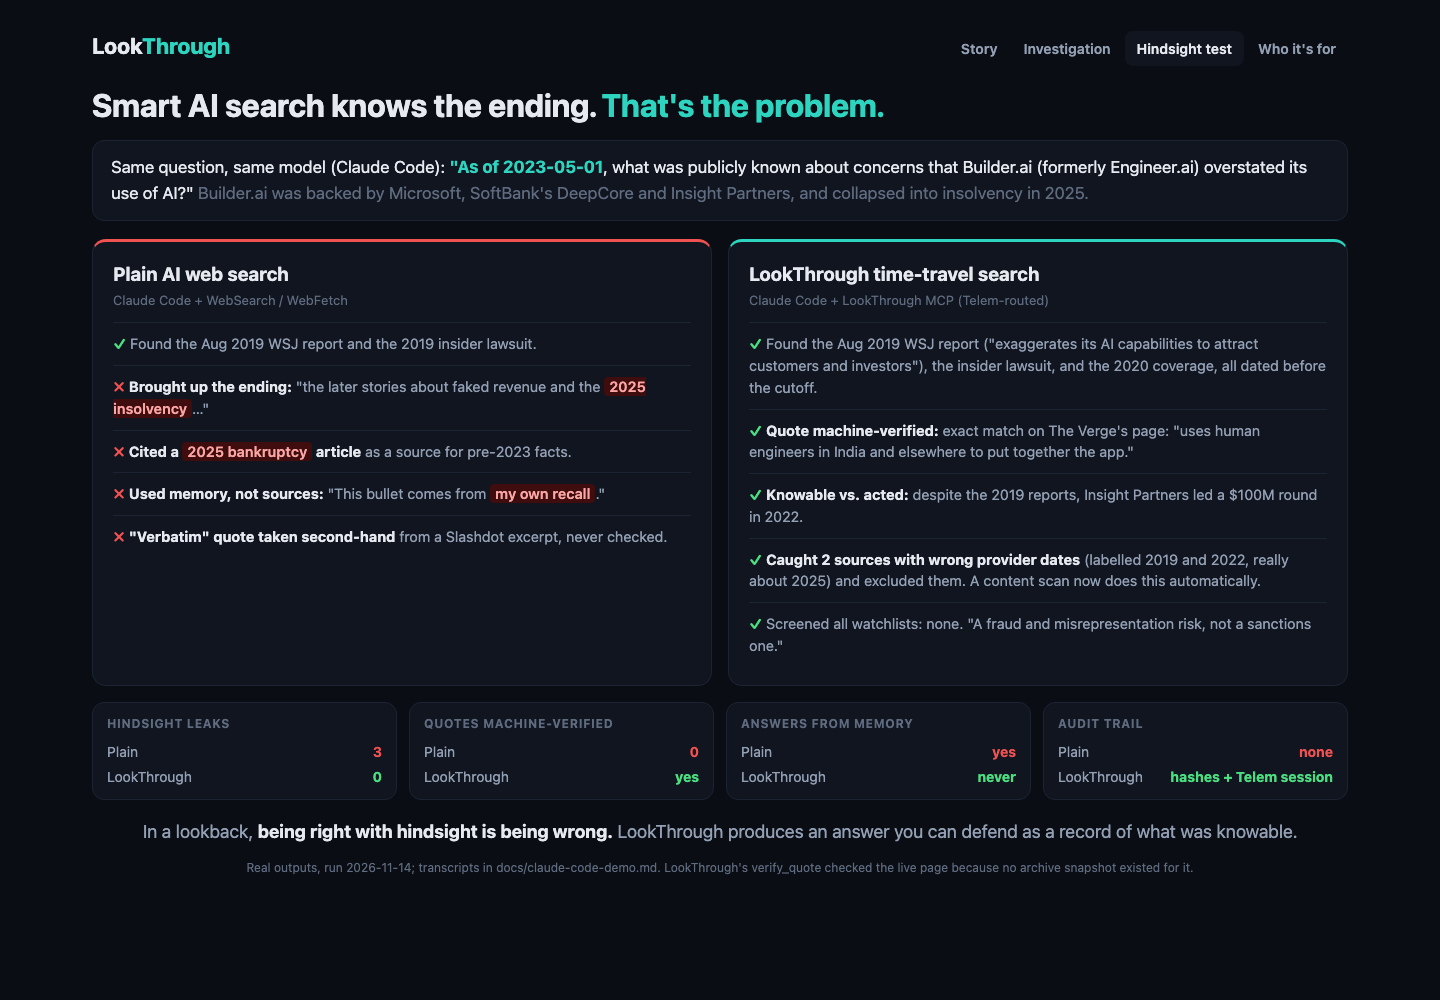
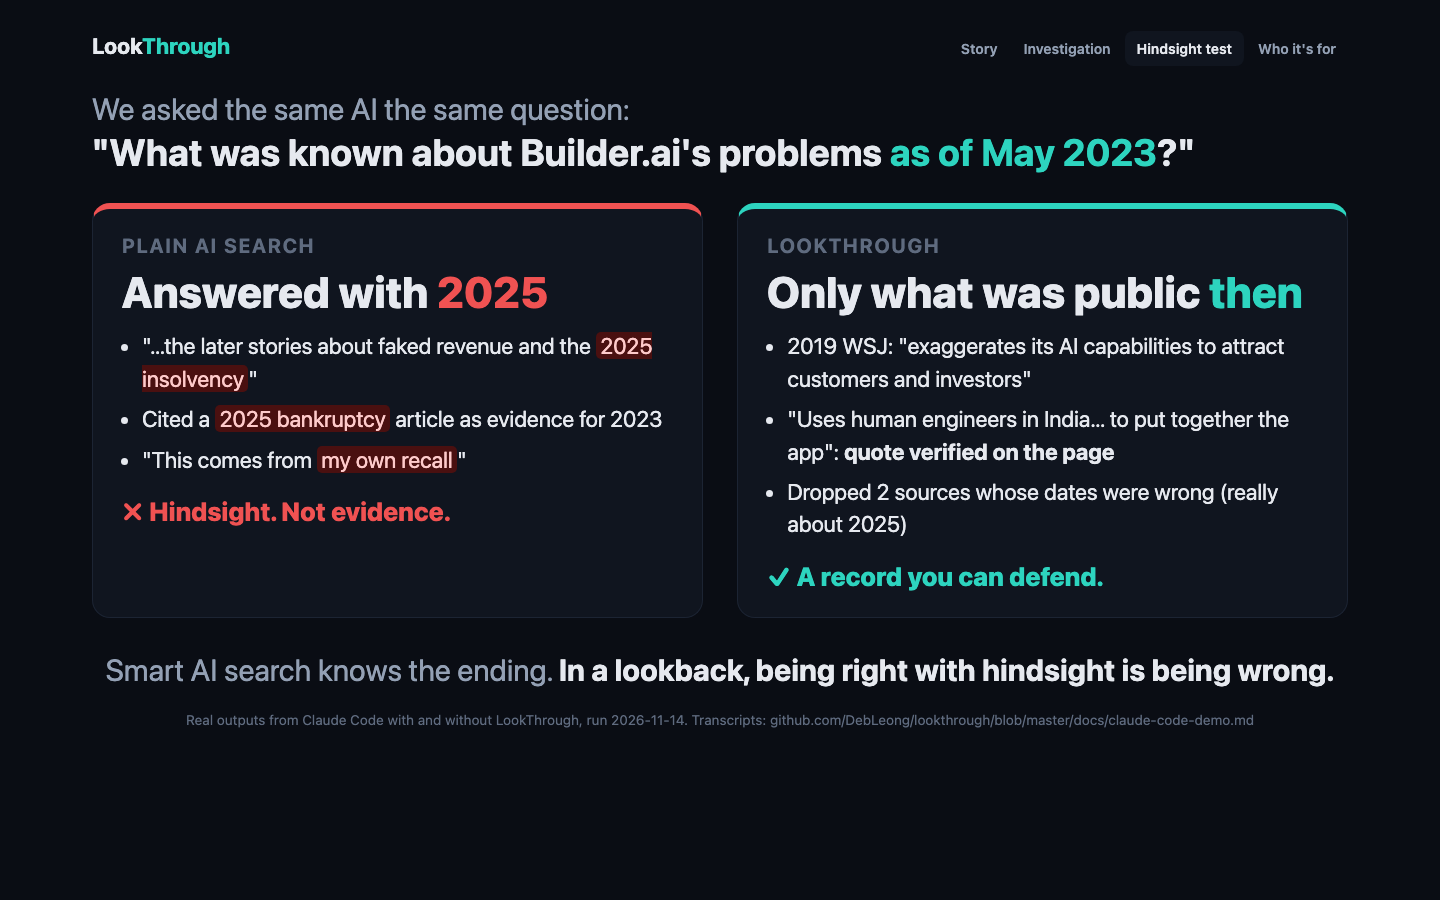
Numbered slides, recap slide, clearer hindsight test

diff --git a/web/compare.html b/web/compare.html
@@ -37,45 +37,53 @@ h1 em{font-style:normal;color:var(--accent)}
 nav.chap{display:flex;gap:2px;margin-left:auto}
 nav.chap a{color:#93a0b4;font-size:14px;font-weight:600;padding:7px 12px;border-radius:8px;text-decoration:none}
 nav.chap a.on{color:#e6e9ef;background:#10151f}nav.chap a:hover{color:#e6e9ef}
+.ask{font-size:2.1vw;line-height:1.3;color:var(--muted);margin:2.5vh 0 3vh}
+.ask b{color:var(--text);font-size:2.6vw}
+.hl{color:var(--accent)}
+.two{display:grid;grid-template-columns:1fr 1fr;gap:2.4vw}
+.side{background:var(--panel);border:1px solid var(--line);border-radius:18px;padding:2.4vh 2vw}
+.side.bad{border-top:6px solid var(--red)}.side.good{border-top:6px solid var(--accent)}
+.lab{font-size:1.4vw;text-transform:uppercase;letter-spacing:.08em;color:var(--dim);font-weight:700}
+.verdict{font-size:3vw;font-weight:800;margin:.8vh 0 1.6vh;line-height:1.1}
+.leakbig{color:var(--red)}.okbig{color:var(--accent)}
+.side ul{margin:0;padding-left:1.4vw;font-size:1.55vw;line-height:1.45;color:var(--text)}
+.side li{margin:.9vh 0}
+.side mark{background:#4a1010;color:#fecaca;padding:0 .3vw;border-radius:5px}
+.tag{margin-top:1.8vh;font-size:1.8vw;font-weight:800}
+.side.bad .tag{color:var(--red)}.side.good .tag{color:var(--accent)}
+.punch{margin-top:3.2vh;font-size:2.1vw;text-align:center;color:var(--muted)}.punch b{color:var(--text)}
+.foot2{margin-top:2vh;text-align:center;color:var(--dim);font-size:.95vw}
 </style>
 </head>
 <body>
 <div class="wrap">
   <div class="top"><div class="logo">Look<span>Through</span></div>
     <nav class="chap"><a href="/story">Story</a><a href="/">Investigation</a><a class="on" href="/compare">Hindsight test</a><a href="/pitch">Who it's for</a></nav></div>
-  <h1>Smart AI search knows the ending. <em>That's the problem.</em></h1>
-  <div class="q">Same question, same model (Claude Code): <b>"As of 2023-05-01</b>, what was publicly known about concerns that Builder.ai (formerly Engineer.ai) overstated its use of AI?" <span style="color:var(--dim)">Builder.ai was backed by Microsoft, SoftBank's DeepCore and Insight Partners, and collapsed into insolvency in 2025.</span></div>
-
-  <div class="cols">
-    <div class="col bad">
-      <h2>Plain AI web search</h2>
-      <div class="sub">Claude Code + WebSearch / WebFetch</div>
-      <div class="item"><span class="ok">✓</span> Found the Aug 2019 WSJ report and the 2019 insider lawsuit.</div>
-      <div class="item"><span class="x">✗</span> <b>Brought up the ending:</b> "the later stories about faked revenue and the <span class="leak">2025 insolvency</span>…"</div>
-      <div class="item"><span class="x">✗</span> <b>Cited a <span class="leak">2025 bankruptcy</span> article</b> as a source for pre-2023 facts.</div>
-      <div class="item"><span class="x">✗</span> <b>Used memory, not sources:</b> "This bullet comes from <span class="leak">my own recall</span>."</div>
-      <div class="item"><span class="x">✗</span> <b>"Verbatim" quote taken second-hand</b> from a Slashdot excerpt, never checked.</div>
+  <div class="ask">We asked the same AI the same question:<br><b>"What was known about Builder.ai's problems <span class="hl">as of May 2023</span>?"</b></div>
+  <div class="two">
+    <div class="side bad">
+      <div class="lab">Plain AI search</div>
+      <div class="verdict">Answered with <span class="leakbig">2025</span></div>
+      <ul>
+        <li>"…the later stories about faked revenue and the <mark>2025 insolvency</mark>"</li>
+        <li>Cited a <mark>2025 bankruptcy</mark> article as evidence for 2023</li>
+        <li>"This comes from <mark>my own recall</mark>"</li>
+      </ul>
+      <div class="tag">✗ Hindsight. Not evidence.</div>
     </div>
-    <div class="col good">
-      <h2>LookThrough time-travel search</h2>
-      <div class="sub">Claude Code + LookThrough MCP (Telem-routed)</div>
-      <div class="item"><span class="ok">✓</span> Found the Aug 2019 WSJ report ("exaggerates its AI capabilities to attract customers and investors"), the insider lawsuit, and the 2020 coverage, all dated before the cutoff.</div>
-      <div class="item"><span class="ok">✓</span> <b>Quote machine-verified:</b> exact match on The Verge's page: "uses human engineers in India and elsewhere to put together the app."</div>
-      <div class="item"><span class="ok">✓</span> <b>Knowable vs. acted:</b> despite the 2019 reports, Insight Partners led a $100M round in 2022.</div>
-      <div class="item"><span class="ok">✓</span> <b>Caught 2 sources with wrong provider dates</b> (labelled 2019 and 2022, really about 2025) and excluded them. A content scan now does this automatically.</div>
-      <div class="item"><span class="ok">✓</span> Screened all watchlists: none. "A fraud and misrepresentation risk, not a sanctions one."</div>
+    <div class="side good">
+      <div class="lab">LookThrough</div>
+      <div class="verdict">Only what was public <span class="okbig">then</span></div>
+      <ul>
+        <li>2019 WSJ: "exaggerates its AI capabilities to attract customers and investors"</li>
+        <li>"Uses human engineers in India… to put together the app": <b>quote verified on the page</b></li>
+        <li>Dropped 2 sources whose dates were wrong (really about 2025)</li>
+      </ul>
+      <div class="tag">✓ A record you can defend.</div>
     </div>
   </div>
-
-  <div class="score">
-    <div class="s"><h4>Hindsight leaks</h4><div>Plain <b style="color:var(--red)">3</b></div><div>LookThrough <b style="color:var(--green)">0</b></div></div>
-    <div class="s"><h4>Quotes machine-verified</h4><div>Plain <b style="color:var(--red)">0</b></div><div>LookThrough <b style="color:var(--green)">yes</b></div></div>
-    <div class="s"><h4>Answers from memory</h4><div>Plain <b style="color:var(--red)">yes</b></div><div>LookThrough <b style="color:var(--green)">never</b></div></div>
-    <div class="s"><h4>Audit trail</h4><div>Plain <b style="color:var(--red)">none</b></div><div>LookThrough <b style="color:var(--green)">hashes + Telem session</b></div></div>
-  </div>
-
-  <div class="bottom">In a lookback, <b>being right with hindsight is being wrong.</b> LookThrough produces an answer you can defend as a record of what was knowable.</div>
-  <div class="foot">Real outputs, run 2026-11-14; transcripts in docs/claude-code-demo.md. LookThrough's verify_quote checked the live page because no archive snapshot existed for it.</div>
+  <div class="punch">Smart AI search knows the ending. <b>In a lookback, being right with hindsight is being wrong.</b></div>
+  <div class="foot2">Real outputs from Claude Code with and without LookThrough, run 2026-11-14. Transcripts: github.com/DebLeong/lookthrough/blob/master/docs/claude-code-demo.md</div>
 </div>
 </body>
 </html>

diff --git a/web/story.html b/web/story.html
@@ -49,14 +49,14 @@ h1 .r{color:var(--red)}
 <body>
 
 <section class="slide">
-  <div class="kicker">LookThrough · a dashcam for due diligence</div>
+  <div class="kicker">1 · The question · LookThrough, a dashcam for due diligence</div>
   <h1>When a deal blows up,<br>everyone asks one question:</h1>
   <h1 style="margin-top:3vh"><em>"What did you know, and when?"</em></h1>
   <div class="sub">The board. Your investors. The regulator. The lawyers. The insurer.</div>
 </section>
 
 <section class="slide">
-  <div class="kicker">Who has to answer it</div>
+  <div class="kicker">2 · Who it's for: a big market</div>
   <h1>Anyone who signs off on risk.</h1>
   <div class="big3" style="grid-template-columns:repeat(4,1fr)">
     <div class="stat"><b>15,352</b><span>Investors</span><small>US venture deals in 2025 alone, $320B; plus PE and M&amp;A</small></div>
@@ -67,13 +67,13 @@ h1 .r{color:var(--red)}
 </section>
 
 <section class="slide">
-  <div class="kicker">A story every investor here knows</div>
+  <div class="kicker">3 · Why it matters: a story you know</div>
   <h1><em>Builder.ai</em> raised from Microsoft and SoftBank.<br>It collapsed in 2025.</h1>
   <div class="sub">The first question to its investors: <b style="color:var(--text)">"Didn't you see the warnings?"</b></div>
 </section>
 
 <section class="slide">
-  <div class="kicker">The warnings were public years before the checks</div>
+  <div class="kicker">4 · Why it matters: the warnings were public</div>
   <div class="cols">
     <div class="col before">
       <h2>Public before the 2023 rounds</h2>
@@ -91,14 +91,14 @@ h1 .r{color:var(--red)}
 </section>
 
 <section class="slide">
-  <div class="kicker">Why it's so hard to answer today</div>
+  <div class="kicker">5 · Why it matters: the pain today</div>
   <h1>Proving what you knew takes<br><em>weeks</em> of analysts and lawyers.</h1>
   <div class="sub" style="font-size:2.6vw">And AI makes it worse. Ask it about 2023 and it answers with <b style="color:var(--red)">2025</b>.</div>
   <div class="quote">Plain AI search, asked what was known in May 2023: "the later stories about faked revenue and the <mark>2025 insolvency</mark>…" and "this comes from <mark>my own recall</mark>."</div>
 </section>
 
 <section class="slide">
-  <div class="kicker">LookThrough</div>
+  <div class="kicker">6 · How it works</div>
   <h1>Type a company. Pick a date.<br>Get the <em>proof</em> in 90 seconds.</h1>
   <div class="big3">
     <div class="stat"><b>Then</b><span>Only what was public on that date</span><small>later news can't leak in. 151 later sources blocked in our tests</small></div>
@@ -108,7 +108,7 @@ h1 .r{color:var(--red)}
 </section>
 
 <section class="slide">
-  <div class="kicker">Built on Telem</div>
+  <div class="kicker">7 · Built on Telem</div>
   <h1>No single search engine sees it all.<br>Telem asks the <em>right ones</em>.</h1>
   <div class="big3">
     <div class="stat"><b>64%</b><span>Routing</span><small>the best single engine alone found only 64% of our verified evidence. Telem sends each question to the engines suited to it</small></div>
@@ -118,7 +118,17 @@ h1 .r{color:var(--red)}
 </section>
 
 <section class="slide">
-  <div class="kicker">Try it</div>
+  <div class="kicker">8 · LookThrough in one slide</div>
+  <div class="vs" style="grid-template-columns:0.6fr 2fr;font-size:2.5vw;margin-top:0">
+        <div><b>Who</b></div><div>Anyone who signs off on risk: investors, banks, insurers, auditors, lawyers, AI agents.</div>
+    <div><b>Why</b></div><div>When it blows up, everyone asks <em style="color:var(--accent);font-style:normal">"what did you know, and when?"</em> Today the answer takes weeks, and AI answers with hindsight.</div>
+    <div><b>How</b></div><div>Type a company. Pick a date. <b style="color:var(--accent)">Get the proof in 90 seconds</b>: only what was public then, every claim quoted and verified, every connection mapped.</div>
+    <div><b>Built on</b></div><div>Telem: the best single engine found only 64%; Telem asks the right ones.</div>
+  </div>
+</section>
+
+<section class="slide">
+  <div class="kicker">9 · Try it</div>
   <h1>Name a company. Pick a date.<br>See what you <em>could have known</em>.</h1>
   <div class="qr"><img src="/media/qr-demo.png" alt="QR code to the live demo"><div><div class="url" id="url"></div><div class="sub" style="font-size:1.8vw">A dashcam for due diligence. Built on Telem.<br>github.com/DebLeong/lookthrough</div></div></div>
 </section>

diff --git a/VIDEO.md b/VIDEO.md
@@ -37,5 +37,8 @@
 **Slide 7 · 1:42**
 "It's built on Telem. No single search engine sees it all: the best one alone found only 64% of our evidence. Telem sends each question to the right engines, reaches WeChat and LinkedIn, filters by publish date, and logs every search, so the whole investigation is traceable."
 
-**Slide 8 · 1:52**
-"Name a company, pick a date, and see what you could have known. LookThrough, built on Telem."
+**Slide 8 (recap) · 1:50**
+"So: who? Anyone who signs off on risk. Why? Because when it blows up, everyone asks what you knew, and when. How? Type a company, pick a date, get the proof in 90 seconds."
+
+**Slide 9 · 1:58**
+"Name a company and see what you could have known. LookThrough, built on Telem."
